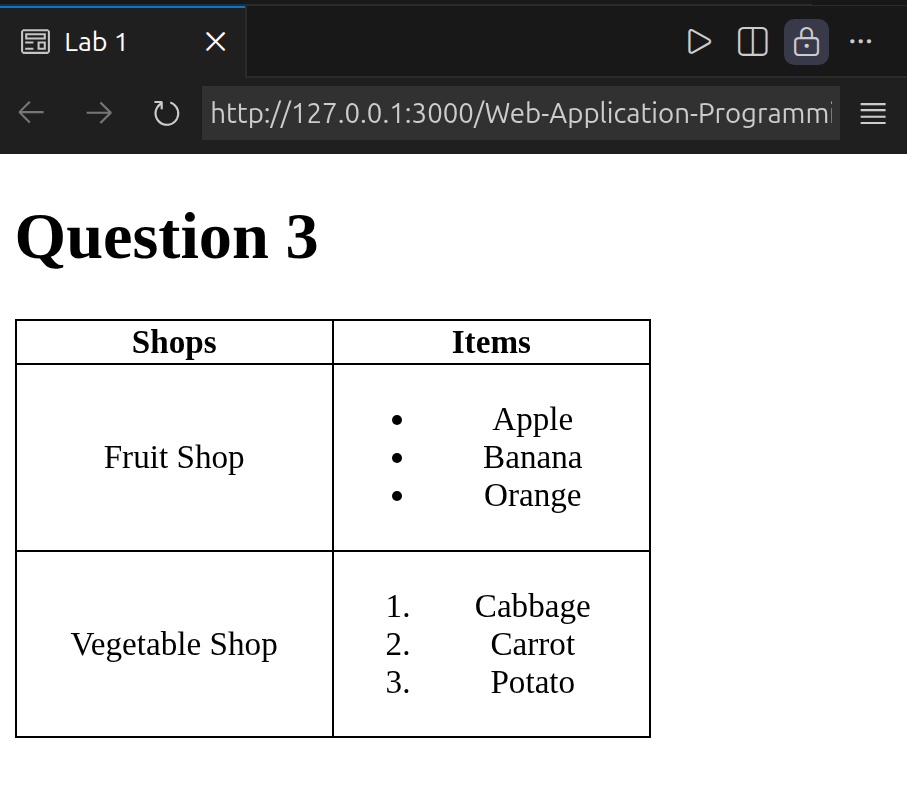
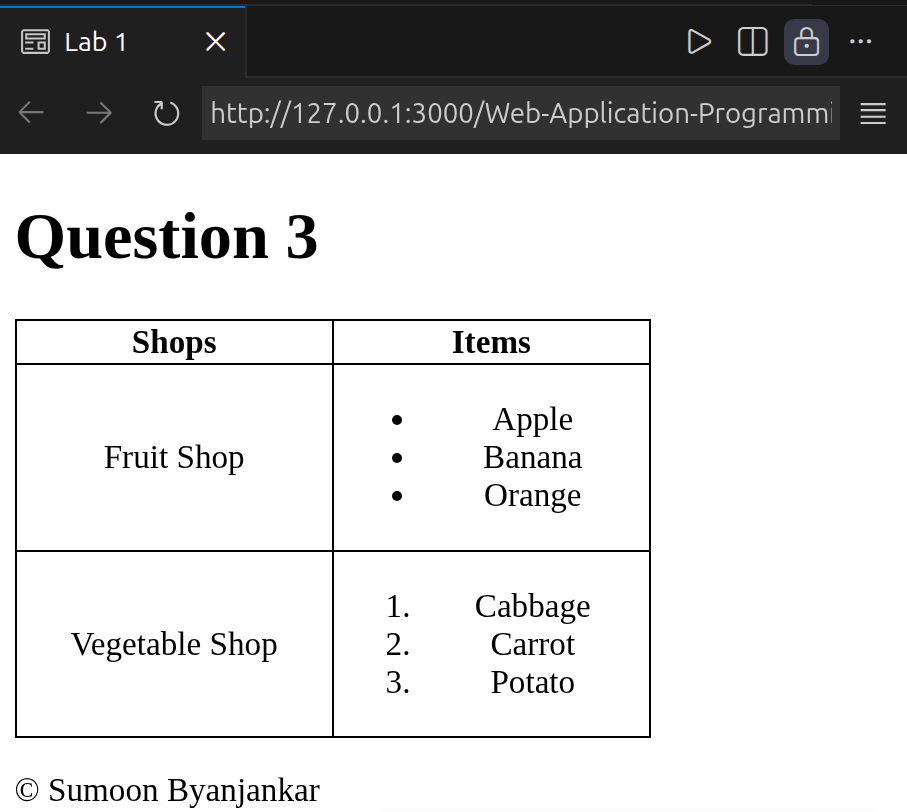
Web App. lab 1 completed 3/9

diff --git a/Web-Application-Programming/lab/lab-01/Q3.html b/Web-Application-Programming/lab/lab-01/Q3.html
@@ -43,5 +43,6 @@
                 </td>
             </tr>
         </table>
+        <footer><p>&copy; Sumoon Byanjankar</p></footer>
     </body>
 </html>

diff --git a/Web-Application-Programming/lab/lab-01/report.md b/Web-Application-Programming/lab/lab-01/report.md
@@ -1,0 +1,25 @@
+# TITLE: HTML Basics
+
+## Objective
+* To learn and use basic HTML formatting tags.
+* To learn the purpose and structure of semantic HTML elements.
+* To create lists and tables.
+* To embed external web pages using the iframe tag.
+* To learn the role of metadata.
+* To learn and use different HTML input elements design basic login.
+
+## Procedure
+
+1. Write an HTML program to demonstrate different text formatting tags such as `<strong>`,
+`<b>`, `<em>`, `<i>`, `<mark>`, `<del>`, and `<ins>`.
+    - [Code](Q1.html)<br>
+    <img src="Q1.png" width="300px" height="350px">
+
+2. Design a webpage using semantic HTML tags including `<header>`, `<nav>`, `<main>`,
+`<section>`, `<article>`, `<aside>`, and `<footer>`. Inside nav there should be proper list of links.
+    - [Code](Q2.html)<br>
+    <img src="Q2.png" width="300px" height="300px">
+
+3. Create an HTML table that contains ordered and unordered lists inside table cells.
+    - [Code](Q3.html)<br>
+    <img src="Q3.png" width ="300px" height="250px">
